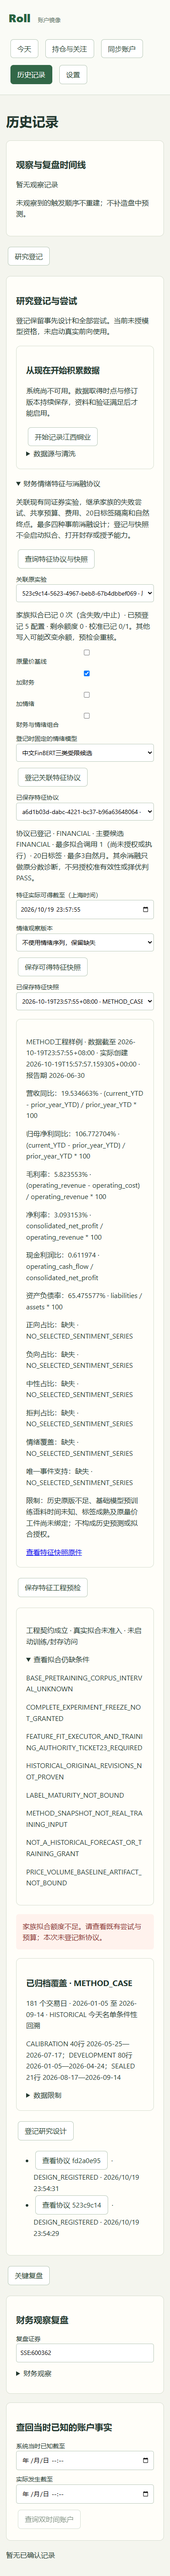
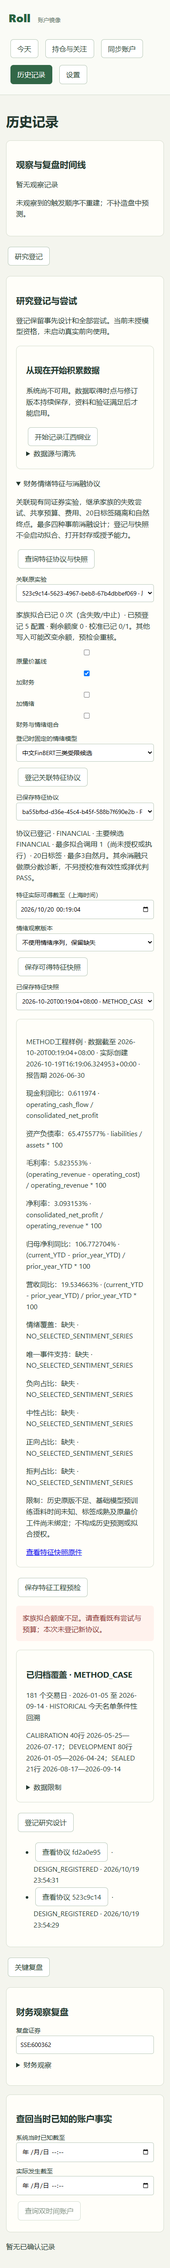
fix(research): bind feature preflights and close ticket 22 review

diff --git a/frontend/src/components/feature-research-panel.tsx b/frontend/src/components/feature-research-panel.tsx
@@ -5,7 +5,7 @@ type Plan={plan_id:string;protocol_id:string;predecessor_id:string;variants:stri
 type Metric={value:string|number|null;reason:string|null;status?:string;formula?:string;unit?:string};
 type Snapshot={snapshot_id:string;known_by:string;created_at:string;report_period:string|null;financial:Record<string,Metric>;sentiment:Record<string,Metric>;source_series_id:string|null;evidence_kind:string;limitations:string[];archive:{sha256:string}};
 type Series={series_id:string;created_at:string;model:string};
-type Preflight={preflight_id:string;engineering_ready:boolean;engineering_gaps:string[];fit_gaps:string[];real_fit_admitted:boolean;current_budget:Budget};
+type Preflight={preflight_id:string;plan_id:string;snapshot_id:string;engineering_ready:boolean;engineering_gaps:string[];fit_gaps:string[];real_fit_admitted:boolean;current_budget:Budget};
 type Budget={fit_records_including_failed_aborted:number;reserved_feature_configurations:number;remaining_configurations:number;calibration_records:number};
 const VARIANTS=[['BASELINE','原量价基线'],['FINANCIAL','加财务'],['SENTIMENT','加情绪'],['BOTH','财务与情绪组合']];
 const LABEL:Record<string,string>={revenue_yoy:'营收同比',parent_net_profit_yoy:'归母净利同比',gross_margin:'毛利率',net_margin:'净利率',cash_profit_ratio:'现金利润比',debt_ratio:'资产负债率',positive_share:'正向占比',negative_share:'负向占比',neutral_share:'中性占比',rejection_share:'拒判占比',coverage:'情绪覆盖',event_support:'唯一事件支持'};
@@ -16,10 +16,10 @@ export function FeatureResearchPanel(){
  const [parent,setParent]=useState(''),[variants,setVariants]=useState(VARIANTS.map(([key])=>key)),[budget,setBudget]=useState<Budget|null>(null),[plan,setPlan]=useState<Plan|null>(null),[snapshot,setSnapshot]=useState<Snapshot|null>(null),[preflight,setPreflight]=useState<Preflight|null>(null);
  const [cutoff,setCutoff]=useState(localNow),[seriesId,setSeriesId]=useState(''),[sentimentProfile,setSentimentProfile]=useState('finbert-adaptation-01'),[busy,setBusy]=useState(false),[error,setError]=useState('');
  async function action(work:()=>Promise<void>){setBusy(true);setError('');try{await work();}catch(e){const message=String(e);setError(message.includes('FEATURE_FAMILY_BUDGET_INSUFFICIENT')?'家族拟合额度不足。请查看既有尝试与预算；本次未登记新协议。':message);}finally{setBusy(false);}}
- async function load(){const all=await request<Core[]>('/research/protocols');setCores(all.filter(core=>core.design&&core.scope.instruments?.includes('SSE:600362')));const p=await request<Plan[]>('/research/feature-plans');setPlans(p);if(p.length)setPlan(p[0]);const s=await request<Snapshot[]>('/research/feature-snapshots');setSnapshots(s);if(s.length)setSnapshot(s[0]);const versions=await request<Series[]>('/market/sentiment-series/SSE:600362/snapshots');setSeries(versions);}
+ async function load(){setPreflight(null);const all=await request<Core[]>('/research/protocols');setCores(all.filter(core=>core.design&&core.scope.instruments?.includes('SSE:600362')));const p=await request<Plan[]>('/research/feature-plans');setPlans(p);if(p.length)setPlan(p[0]);const s=await request<Snapshot[]>('/research/feature-snapshots');setSnapshots(s);if(s.length)setSnapshot(s[0]);const versions=await request<Series[]>('/market/sentiment-series/SSE:600362/snapshots');setSeries(versions);}
  async function selectParent(id:string){setParent(id);setBudget(id?await request<Budget>('/research/feature-budget/'+id):null);}
- async function register(){const value=await request<Plan>('/research/feature-plans',{predecessor_id:parent,variants,sentiment_profile:sentimentProfile,idempotency_key:crypto.randomUUID(),basis:'用户事前登记同家族财务/情绪特征消融扩展，未授权拟合或封存访问'});setPlan(value);setPlans(await request<Plan[]>('/research/feature-plans'));setBudget(await request<Budget>('/research/feature-budget/'+parent));}
- async function capture(){const value=await request<Snapshot>('/research/feature-snapshots',{instrument:'SSE:600362',known_by:cutoff+'+08:00',series_id:seriesId||null,idempotency_key:crypto.randomUUID(),basis:'用户保存实际可得版本的特征观察，缺失/拒判保留，不倒填预测'});setSnapshot(value);setSnapshots(await request<Snapshot[]>('/research/feature-snapshots'));setPreflight(null);}
+ async function register(){setPreflight(null);const value=await request<Plan>('/research/feature-plans',{predecessor_id:parent,variants,sentiment_profile:sentimentProfile,idempotency_key:crypto.randomUUID(),basis:'用户事前登记同家族财务/情绪特征消融扩展，未授权拟合或封存访问'});setPlan(value);setPlans(await request<Plan[]>('/research/feature-plans'));setBudget(await request<Budget>('/research/feature-budget/'+parent));}
+ async function capture(){setPreflight(null);const value=await request<Snapshot>('/research/feature-snapshots',{instrument:'SSE:600362',known_by:cutoff+'+08:00',series_id:seriesId||null,idempotency_key:crypto.randomUUID(),basis:'用户保存实际可得版本的特征观察，缺失/拒判保留，不倒填预测'});setSnapshot(value);setSnapshots(await request<Snapshot[]>('/research/feature-snapshots'));setPreflight(null);}
  return <details className="status-evidence"><summary>财务情绪特征与消融协议</summary>
   <p>关联现有同证券实验，继承家族的失败尝试、共享预算、费用、20日标签隔离和自然终点。最多四种事前消融设计；登记与快照不会启动拟合、打开封存或授予能力。</p>
   <button disabled={busy} onClick={()=>void action(load)}>查询特征协议与快照</button>
@@ -28,15 +28,15 @@ export function FeatureResearchPanel(){
   {VARIANTS.map(([key,label])=><label key={key}><input type="checkbox" disabled={busy} checked={variants.includes(key)} onChange={e=>setVariants(VARIANTS.map(([name])=>name).filter(name=>name===key?e.target.checked:variants.includes(name)))}/>{label}</label>)}
   <label>登记时固定的情绪模型<select aria-label="特征协议情绪模型" value={sentimentProfile} onChange={e=>setSentimentProfile(e.target.value)}><option value="finbert-adaptation-01">中文FinBERT三类受限候选</option><option value="legacy">原二分类（原门槛未通过，中性未支持）</option></select></label>
   <button disabled={busy||!parent||variants.length===0} onClick={()=>void action(register)}>登记关联特征协议</button>
-  {plans.length>0&&<label>已保存特征协议<select aria-label="已保存特征协议" value={plan?.plan_id??''} onChange={e=>void action(async()=>setPlan(await request<Plan>('/research/feature-plans/'+e.target.value)))}>{plans.map(row=><option key={row.plan_id} value={row.plan_id}>{row.plan_id} · {row.variants.join('、')} · {row.evidence_kind}</option>)}</select></label>}
+  {plans.length>0&&<label>已保存特征协议<select aria-label="已保存特征协议" value={plan?.plan_id??''} onChange={e=>void action(async()=>{setPreflight(null);setPlan(await request<Plan>('/research/feature-plans/'+e.target.value));})}>{plans.map(row=><option key={row.plan_id} value={row.plan_id}>{row.plan_id} · {row.variants.join('、')} · {row.evidence_kind}</option>)}</select></label>}
   {plan&&<p>协议已登记 · {plan.variants.join('、')} · 主要候选 {plan.calibration_allocation.primary} · 最多拟合调用 {plan.resource_plan.maximum_fit_calls}（尚未授权或执行）· {plan.inherited_design.horizon_sessions}日标签 · 最多{plan.inherited_design.stopping.maximum_natural_months}自然月。其余消融只做原分数诊断，不另授校准有效性或择优判PASS。</p>}
   <label>特征实际可得截至（上海时间）<input aria-label="特征实际可得截至" type="datetime-local" step="1" value={cutoff} onChange={e=>setCutoff(e.target.value)}/></label>
   <label>情绪观察版本<select aria-label="特征情绪观察版本" value={seriesId} onChange={e=>setSeriesId(e.target.value)}><option value="">不使用情绪序列，保留缺失</option>{series.map(row=><option key={row.series_id} value={row.series_id}>{row.created_at} · {row.model}</option>)}</select></label>
   <button disabled={busy||!cutoff} onClick={()=>void action(capture)}>保存可得特征快照</button>
-  {snapshots.length>0&&<label>已保存特征快照<select aria-label="已保存特征快照" value={snapshot?.snapshot_id??''} onChange={e=>void action(async()=>{setSnapshot(await request<Snapshot>('/research/feature-snapshots/'+e.target.value));setPreflight(null);})}>{snapshots.map(row=><option key={row.snapshot_id} value={row.snapshot_id}>{row.known_by} · {row.evidence_kind}</option>)}</select></label>}
+  {snapshots.length>0&&<label>已保存特征快照<select aria-label="已保存特征快照" value={snapshot?.snapshot_id??''} onChange={e=>void action(async()=>{setPreflight(null);setSnapshot(await request<Snapshot>('/research/feature-snapshots/'+e.target.value));setPreflight(null);})}>{snapshots.map(row=><option key={row.snapshot_id} value={row.snapshot_id}>{row.known_by} · {row.evidence_kind}</option>)}</select></label>}
   {snapshot&&<section aria-label="可得特征快照"><p role="status">{snapshot.evidence_kind==='METHOD_CASE'?'METHOD工程样例':snapshot.evidence_kind==='REAL_SAVED_FEATURE_OBSERVATION'?'实际保存来源特征':'来源资格未验证'} · 数据截至 {snapshot.known_by} · 实际创建 {snapshot.created_at} · 报告期 {snapshot.report_period??'缺失'}</p>{Object.entries({...snapshot.financial,...snapshot.sentiment}).map(([key,value])=><p key={key}>{LABEL[key]??key}：{metricText(key,value)}{value.reason&&` · ${value.reason}`}{value.formula&&` · ${value.formula}`}</p>)}<p>限制：历史原版不足、基础模型预训练语料时间未知、标签成熟及原量价工件尚未绑定；不构成历史预测或拟合授权。</p><a href={'/api/data/archives/'+snapshot.archive.sha256} download>查看特征快照原件</a></section>}
   <button disabled={busy||!plan||!snapshot} onClick={()=>void action(async()=>setPreflight(await request<Preflight>(`/research/feature-plans/${plan!.plan_id}/preflights`,{idempotency_key:crypto.randomUUID(),snapshot_id:snapshot!.snapshot_id})))}>保存特征工程预检</button>
-  {preflight&&<section aria-label="特征工程预检"><p role="status">工程契约{preflight.engineering_ready?'成立':'未成立'} · 真实拟合未准入 · 未启动训练/封存访问</p>{preflight.engineering_gaps.map(gap=><p key={gap}>{gap}</p>)}<details><summary>查看拟合仍缺条件</summary>{preflight.fit_gaps.map(gap=><p key={gap}>{gap}</p>)}</details></section>}
+  {preflight&&preflight.plan_id===plan?.plan_id&&preflight.snapshot_id===snapshot?.snapshot_id&&<section aria-label="特征工程预检"><p role="status">工程契约{preflight.engineering_ready?'成立':'未成立'} · 真实拟合未准入 · 未启动训练/封存访问</p>{preflight.engineering_gaps.map(gap=><p key={gap}>{gap}</p>)}<details><summary>查看拟合仍缺条件</summary>{preflight.fit_gaps.map(gap=><p key={gap}>{gap}</p>)}</details></section>}
   {error&&<p role="alert">{error}</p>}
  </details>;
 }

diff --git a/frontend/tests/e2e/expansion-feature-protocol-method.spec.ts b/frontend/tests/e2e/expansion-feature-protocol-method.spec.ts
@@ -16,6 +16,13 @@ test('METHOD linked preregistration to snapshot and engineering preflight, with 
  await expect(page.getByRole('region',{name:'特征工程预检'}).getByText(/工程契约成立 · 真实拟合未准入/)).toBeVisible();
  await page.getByText('查看拟合仍缺条件',{exact:true}).click();
  await expect(page.getByText('FEATURE_FIT_EXECUTOR_AND_TRAINING_AUTHORITY_TICKET23_REQUIRED',{exact:true})).toBeVisible();
+ const selector=page.getByLabel('已保存特征协议',{exact:true});const current=await selector.inputValue();
+ const saved=await (await request.get('/api/research/feature-plans')).json();const other=saved.find((p:{plan_id:string})=>p.plan_id!==current);
+ await selector.selectOption(other.plan_id);await expect(page.getByRole('region',{name:'特征工程预检'})).toHaveCount(0);
+ await selector.selectOption(current);await expect(page.getByRole('region',{name:'特征工程预检'})).toHaveCount(0);
+ await page.getByRole('button',{name:'保存特征工程预检',exact:true}).click();
+ await expect(page.getByRole('region',{name:'特征工程预检'}).getByText(/工程契约成立 · 真实拟合未准入/)).toBeVisible();
+ await page.getByRole('button',{name:'查询特征协议与快照',exact:true}).click();await expect(page.getByRole('region',{name:'特征工程预检'})).toHaveCount(0);
  await page.getByRole('button',{name:'登记关联特征协议',exact:true}).click();
  await expect(page.getByRole('alert').filter({hasText:'家族拟合额度不足'})).toBeVisible();
  await page.setViewportSize({width:390,height:844});expect(await page.evaluate(()=>document.documentElement.scrollWidth<=innerWidth)).toBeTruthy();

diff --git a/.scratch/roll-capability-expansion/issues/22-feature-asof-protocol.md b/.scratch/roll-capability-expansion/issues/22-feature-asof-protocol.md
@@ -6,9 +6,9 @@
 
 **Status:** ready-for-agent
 
-**Completion:** partial
+**Completion:** complete
 
-**Execution:** REVIEW_PENDING — 关联家族/共享预算/固定模型与源码契约/不可变快照/API/页面/预检已交付；14相关回归及最终4新测试、构建、真实与METHOD Chrome通过，真实指标快照零HTTP/模型/拟合/SEALED，待双轴审查。
+**Execution:** ENGINEERING_DELIVERED — 双轴通过；预检跨协议旧结果绑定已修复，Chrome回归/构建通过。真实来源快照与METHOD登记分开，真实拟合/SEALED未准入。
 
 **Scope / inheritance:** 新增研究入口，复用原实验注册和特征/来源归档。
 
@@ -18,12 +18,12 @@
 
 ## Acceptance criteria
 
-- [ ] 固定财务字段口径、新闻标签/聚合方法、缺失/拒判政策和可消费截止，形成不可变特征快照；后来修订不能倒填。
-- [ ] 登记原量价基线、加财务、加情绪和两者组合的最多四种消融设计；实际配置数受现有家族剩余预算约束，不开新家族绕过预算。
-- [ ] 提前固定标签事件/期限、费用/执行、时间切分/隔离、主要目标、候选顺序、样本支持、统计方法、调用与自然终点。
-- [ ] 预训练/训练语料时间不明、历史原版不足、标签未成熟等保持限制；不能把现在采集的信息混入过去预测。
-- [ ] 通过公共注册→快照→预检→查询/页面与重放，支持成立和拒绝均可验；只完成工程准入，不自动启动真实拟合或打开SEALED。
-- [ ] 附本票适用的代码/依赖版本、公开行为验收、真实与METHOD边界、原失败及剩余条件；若继承另一会话成果，引用精确验收并核对当前版本。不得以仅写计划或仅实现拒绝路径替代所要求的正向能力。
+- [x] 固定财务字段口径、新闻标签/聚合方法、缺失/拒判政策和可消费截止，形成不可变特征快照；后来修订不能倒填。
+- [x] 登记原量价基线、加财务、加情绪和两者组合的最多四种消融设计；实际配置数受现有家族剩余预算约束，不开新家族绕过预算。
+- [x] 提前固定标签事件/期限、费用/执行、时间切分/隔离、主要目标、候选顺序、样本支持、统计方法、调用与自然终点。
+- [x] 预训练/训练语料时间不明、历史原版不足、标签未成熟等保持限制；不能把现在采集的信息混入过去预测。
+- [x] 通过公共注册→快照→预检→查询/页面与重放，支持成立和拒绝均可验；只完成工程准入，不自动启动真实拟合或打开SEALED。
+- [x] 附本票适用的代码/依赖版本、公开行为验收、真实与METHOD边界、原失败及剩余条件；若继承另一会话成果，引用精确验收并核对当前版本。不得以仅写计划或仅实现拒绝路径替代所要求的正向能力。
 
 ## Implementation boundary
 
@@ -35,3 +35,5 @@
 
 
 2026-10-19：见[22验收](../evidence/22-features/acceptance.md)。真实保存来源只证明特征推导；正向登记/预检为METHOD，未伪造真实家族、拟合支持或授权。旧12个模型指纹文件未变。
+
+2026-10-20：双轴结论与修复回归见[review-results](../evidence/22-features/review-results.md)；仅工程完整交付，23真实训练与26其他前置未满足。

diff --git a/.scratch/roll-capability-expansion/execution-status.md b/.scratch/roll-capability-expansion/execution-status.md
@@ -35,11 +35,11 @@
 | [19 · QuantStats绩效图与导出](issues/19-performance-report.md) | complete | 三条保存基准读取遗漏已修复；固定窗口/错位/API/Chrome/旧报告重放通过，未授资格 |
 | [20 · scikit-learn概率计算核验](issues/20-probability-reference.md) | complete | 固定口径实际库/API/边界/Chrome/源绑定/重放已验；非独立统计资格 |
 | [21 · arch区块统计核验](issues/21-block-stat-reference.md) | complete | 实际arch成对统计/API/边界/Chrome/保存重放通过；来源区间不足，独立有效性未授予 |
-| [22 · 新增特征快照与消融协议](issues/22-feature-asof-protocol.md) | partial | 关联家族预算/固定契约/特征快照/预检/API/页面；14回归+最终4新项/构建/真与METHOD Chrome通过；真实来源快照零拟合/SEALED，待双审查 |
+| [22 · 新增特征快照与消融协议](issues/22-feature-asof-protocol.md) | complete | 双轴通过；预检绑定修复/Chrome16.5s/构建3.11s；关联预算/固定契约/快照/API/页面工程完成，真实拟合未准入 |
 | [23 · 后继候选真实训练与完整冻结](issues/23-successor-fit.md) | pending | 已发布，未实施；含真实外部/时间条件 |
 | [24 · 后继候选真实前向启运](issues/24-successor-forward.md) | pending | 已发布，未实施；含真实外部/时间条件 |
 | [25 · 后继实验终点验证交付](issues/25-successor-verdict.md) | pending | 已发布，未实施；含真实外部/时间条件 |
-| [26 · 增量工程交付与兼容验收](issues/26-integration-delivery.md) | pending | 已发布，未实施 |
+| [26 · 增量工程交付与兼容验收](issues/26-integration-delivery.md) | pending | 依赖核对：02/03/04/05/06/07未完成，不启动收口 |
 
 ## 规划文档检查
 
@@ -162,3 +162,5 @@ API/指标METHOD pytest6通过/20.00s，构建通过，干净副本/独立端口
 2026-10-19：17完成受限观察工程，证据17-series/acceptance.md；审查发现旧转载覆盖更正/推迟首次消费两个问题，v2及METHOD回归修复，旧快照保留。下一18，22工程依赖亦就绪；26仍缺02/03/04权威来源、05完整拟合/REAL、06、07真实资金，不能标记完成。
 
 2026-10-19：18完成受限观察工程（18-worker/acceptance.md）；默认暂停，旧worker脏字节保留，仅提交两行接入。真实首轮推理45秒超时没有冒充成功；最终事实路径原进程租约/重启/通知/账户通过。通知回归3项旧失败已在pre18模块复现；不改旧P0路径。下一22，26真实前置仍不齐。
+
+2026-10-20：22工程完成（22-features/acceptance.md、review-results.md），预检跨协议旧结果修复，METHOD Chrome/构建通过。当前15complete/5partial/6pending。26保持pending，缺02/03/04权威契约、05四非中心工件/REAL authority/独立支持/完整冻结、06依赖05、07真实资金；不绕过Blocked by。23—25另需真实训练材料/授权与自然时间，16训练授权已消费，不复用。

diff --git a/.scratch/roll-capability-expansion/handoff-2026-10-20.md b/.scratch/roll-capability-expansion/handoff-2026-10-20.md
@@ -1,0 +1,11 @@
+# 2026-10-20 continuation handoff
+
+Branch codex/roll-capability-expansion. Before closure commit HEAD9a2cb332; final closure commit is the commit containing this document. Preserve all inherited dirty/untracked entries; never add-A/reset/clean. No push/PR.
+
+16/17/18/22 complete as limited research/engineering only, NOT_GRANTED. Evidence:16-sentiment/trained-candidate-01/acceptance.md,17-series/acceptance.md,18-worker/acceptance.md,22-features/acceptance.md and their review-results.md. 16 is Chinese FinBERT alternative, not official FinBERT2. One authorized2epoch training consumed; fresh02 failed holdout sealed forever. New once-only primary120 P/N/U/I30each passes original gates, labels nonindependent/singleissuer limitation. No production enable.
+
+17v2 preserves first availability and latest corrections, counts unique events with refusal denominator. 18 existing worker default paused, internal notifications only, cancellation/checkpoint races fixed. Actual inference attempt timed out45seconds; successful final actual worker run used facts only, no claim successful classification. Three old notification regression failures reproduced pre18 and preserved. 22 fixed financial fields/model/source hashes/family budgets/immutable snapshots; real saved sources positive snapshot, positive linked register/preflight METHOD only. Final stale preflight UI fixed with plan+snapshot IDs, Chrome16.5s/build3.11s passed.
+
+15complete/5partial02/03/04/05/07/6pending06/08/23/24/25/26. 26 dependency-audit.json shows six unmet dependencies:02—04 authority contracts;05 four noncenter fitted artifacts/REAL authority/independent support/full freeze;06 depends05;07 real funds. Do not start26 before all are complete.23 needs real family/features/mature labels/budget/full design and training authority;16 authorization does not authorize23 training.24/25 require natural windows/funds. User broad supplementation permission permits missing public corpus work, not self-signed domain authority or invented funds.
+
+Backend pytest in backend/.venv; Chrome configs need explicit API runtime role, unused ports and clean complete data copy including backups/capability-journal/origin.json. Actual full copies r17-runtime04,r18-runtime04,r22-real03. Do not change original12 model fingerprint files. reviews.py has inherited dirty hunks: only2own hook lines were scoped-staged in18; never stage whole file. Original tracked dirty12 retained. No additional routine tests needed absent new changes; final evidence includes exact prior test/build/browser results and failures.

diff --git a/.scratch/roll-capability-expansion/evidence/22-features/acceptance.md b/.scratch/roll-capability-expansion/evidence/22-features/acceptance.md
@@ -1,4 +1,4 @@
-# Ticket22 acceptance — review pending
+# Ticket22 acceptance — complete (engineering only)
 
 Dependencies11/17/20/21 complete, implementation baselineaa5af2d. New feature research is a linked immutable supplement to an existing core baseline protocol; no original registry/models/design/execution/validation source change. Original12 model-fingerprint files matchfe5d01c7 (`model-preservation.json`). Old protocols/artifacts/accounts/results remain unchanged. No fitting, label computation, model calls, source HTTP or SEALED access by this feature.
 
@@ -32,4 +32,7 @@ Final build passed3.27s, existing >500kB warning. Chrome channel/explicitAPI rol
 
 ## Limits / next
 
-Python3.13.12, existing FastAPI/SQLite/Pydantic/React/Vite/Playwright/Chrome, no dependency install. Fixed feature versionfinancial-sentiment-feature-protocol-v1 and exact code/reference archives. No real fitting/training authorization, qualifying historical feature/label package, independent calibration validity, source authority, funds or complete experiment freeze provided.23 requires these separately;16's one training authorization was consumed for its Chinese sentiment candidate and is not reused here.26 still has incomplete02/03/04/05/06/07 dependencies. Dual Standards/Spec review required before complete.
+Python3.13.12, existing FastAPI/SQLite/Pydantic/React/Vite/Playwright/Chrome, no dependency install. Fixed feature versionfinancial-sentiment-feature-protocol-v1 and exact code/reference archives. No real fitting/training authorization, qualifying historical feature/label package, independent calibration validity, source authority, funds or complete experiment freeze provided.23 requires these separately;16's one training authorization was consumed for its Chinese sentiment candidate and is not reused here.26 still has incomplete02/03/04/05/06/07 dependencies. Dual Standards/Spec review passed; see review-results.md.
+
+
+2026-10-20 review closure: Spec passed pinned9a2cb33. Standards found stale preflight presentation on protocol changes; fixed by clearing on selection/load/register/capture and requiring plan_id plus snapshot_id equality at render (including late async responses). Final METHOD Chrome1passed16.5s covers switching, returning, explicit re-preflight and reload invalidation; build3.11s passed. Prior browser JSON/screenshot preserved separately. No backend/model/holdout/threshold change in this fix.

diff --git a/.scratch/roll-capability-expansion/evidence/22-features/review-results.md b/.scratch/roll-capability-expansion/evidence/22-features/review-results.md
@@ -1,0 +1,9 @@
+# Ticket22 dual-axis review
+
+Fixed implementation commit:9a2cb332ce136a698827112a4aee746df21283e5, baselineaa5af2d.
+
+Spec agent /root/r16_spec_review: PASS, no blocker or unauthorized scope. Immutable design inheritance, same-family shared budget, actual availability/nulls and real_fit_admitted=false meet22. Real linked family does not exist; positive plan flow is METHOD and real snapshot flow is separately recorded. No real fitting/PIT/qualification inferred.
+
+Standards agent /root/r16_standards_review: zero documented-standard violations, one P2 correctness finding: old preflight could appear under a newly selected protocol. Fixed by binding response plan/snapshot IDs, clearing all selection/mutation/load paths and checking IDs before rendering. Read-only re-review of final diff: PASS, no remaining blocker. Final Chrome regression1passed16.5s and build3.11s verified by primary agent. Backend tests14related and4final remain applicable; final fix changes only frontend/test and evidence.
+
+No old model sources changed, no source/model calls, fit, SEALED or account mutation by review/fix. Existing limits and failed attempts retained in acceptance.md.

diff --git a/.scratch/roll-capability-expansion/issues/26-integration-delivery.md b/.scratch/roll-capability-expansion/issues/26-integration-delivery.md
@@ -8,7 +8,7 @@
 
 **Completion:** pending
 
-**Execution:** NOT_STARTED；当前仅发布计划，用户稍后启动后才执行。
+**Execution:** WAITING_FOR_DEPENDENCIES — 已核对02/03/04/05/06/07仍未complete；18/22工程依赖已交付，但不得跳过其余前置开始集成验收。
 
 **Scope / inheritance:** 本票工程收口不等待08/23—25自然时间，但不能替代它们的真实验收。
 
@@ -34,3 +34,5 @@
 
 2026-10-14：依据用户授权发布，尚未实施。完成状态与真实启动条件独立于分诊标签；先读01交接和任务计划，保留另一会话成果及原P0验收。
 
+
+2026-10-20：现场逐票核对见[evidence/26-readiness/dependency-audit.json](../evidence/26-readiness/dependency-audit.json)。Completion仍pending，未勾选验收、未执行安装/迁移/正式收口。下一就绪工作需先补02—04权威契约、05指定真实工件/authority等、07真实资金；06仍依赖05。08/23—25真实条件另外保留。
